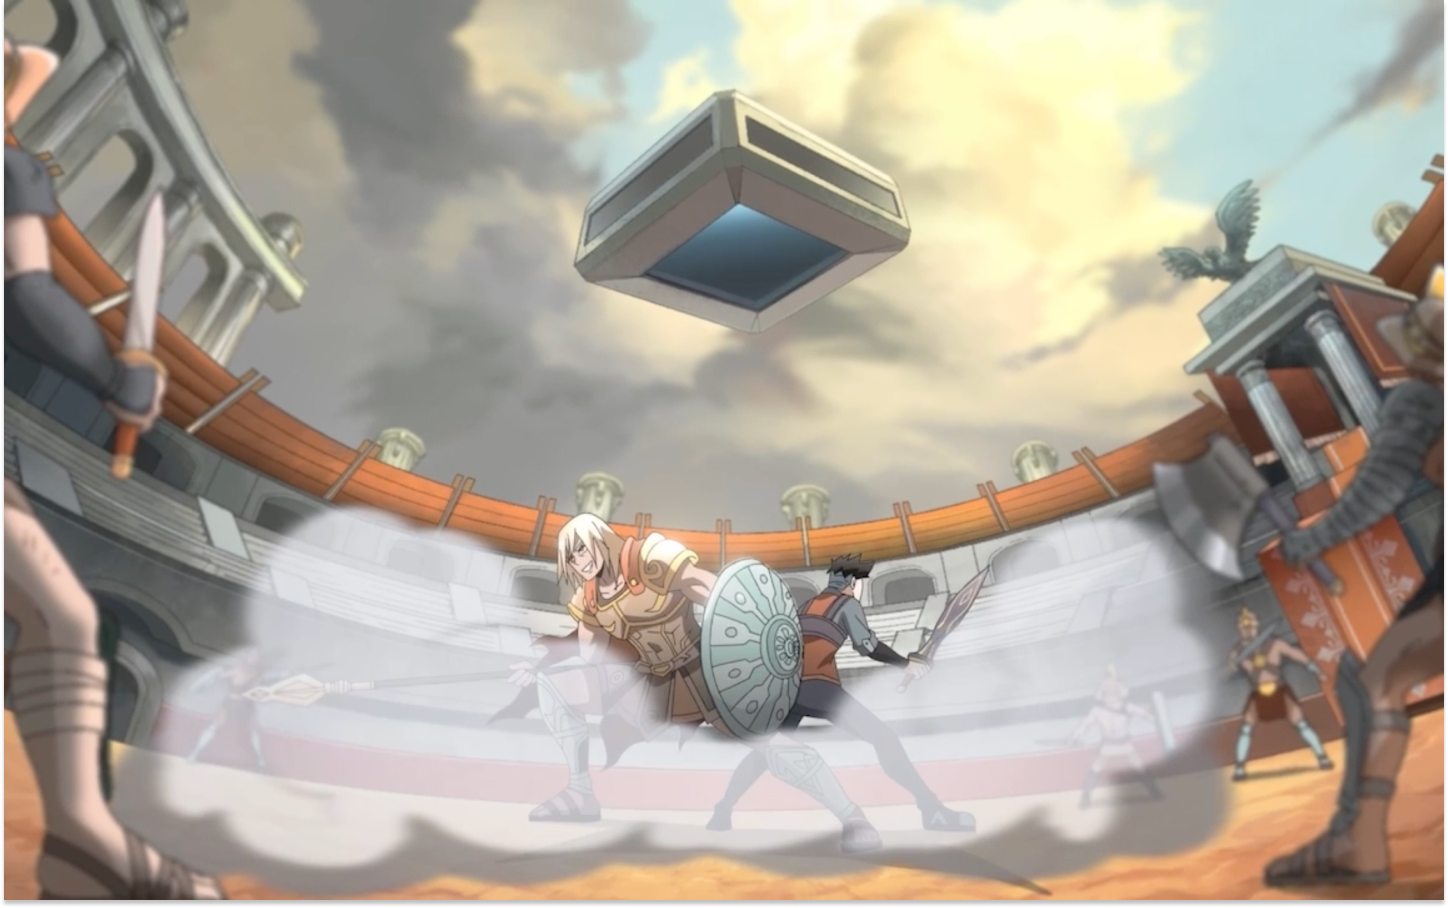
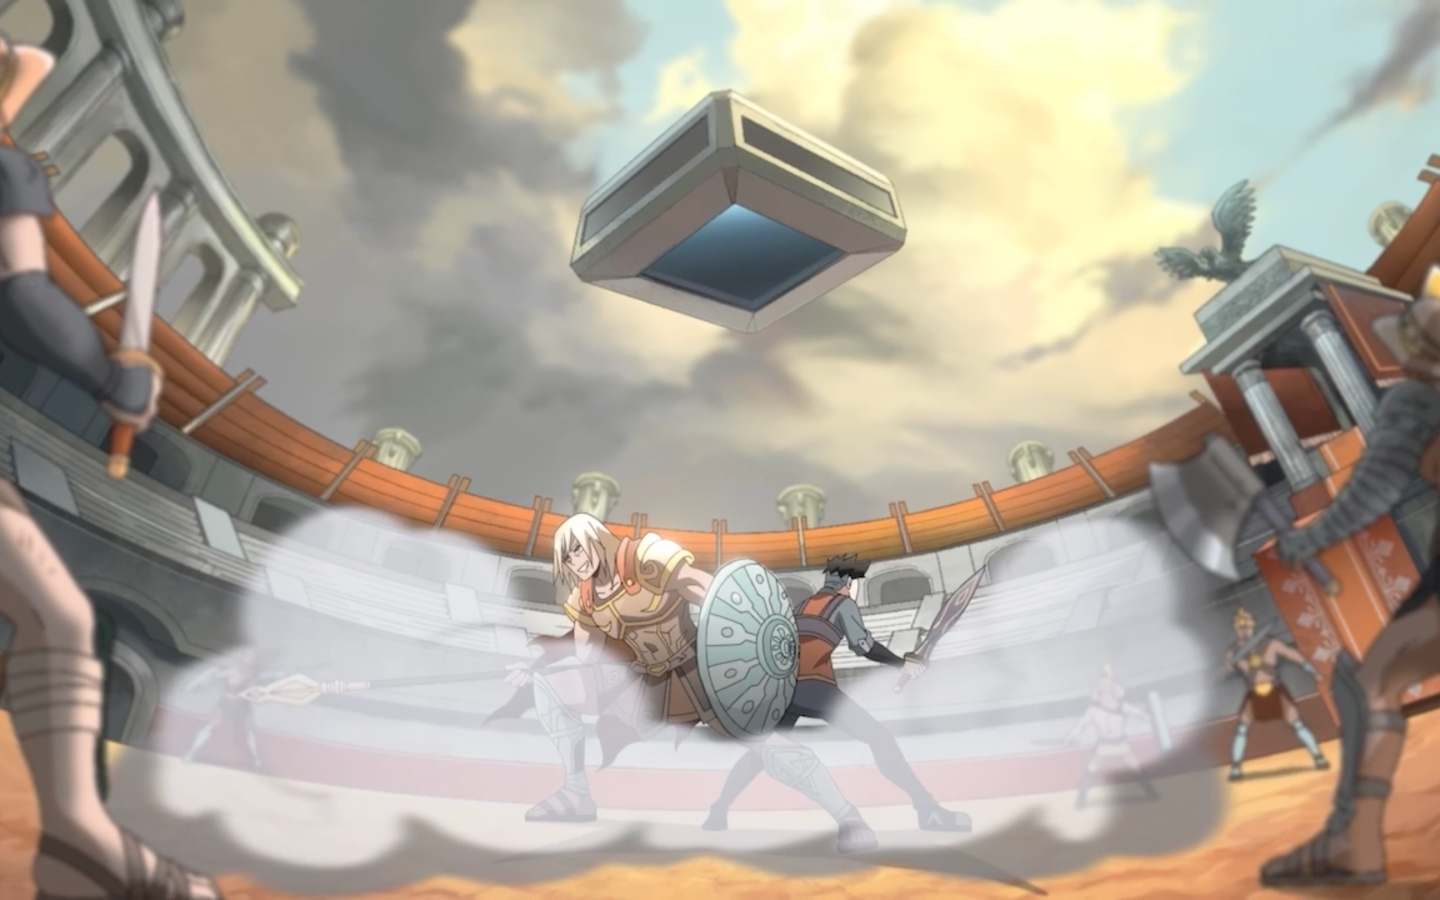
fix: update design

diff --git a/src/app/system-royale/page.tsx b/src/app/system-royale/page.tsx
@@ -312,40 +312,40 @@ export default function On1Forces() {
             Environment Design
           </Text>
           <Box
-            className="relative mx-auto bg-white rounded-[10px] md:rounded-[30px] overflow-hidden w-[312px] h-[219px] md:w-[1040px] md:h-[550px]"
+            className="relative mx-auto bg-white rounded-[10px] md:rounded-[30px] overflow-hidden w-[312px] h-[164px] md:w-[1040px] md:h-[550px]"
             boxShadow="0px 24px 48px 0px rgba(16, 24, 40, 0.12)"
           >
             <Image fill src="/images/voyceMe-8.png" alt="voyceMe-8" />
           </Box>
-          <Stack direction="row" className="mx-auto gap-[10px] md:gap-[35px]">
+          <Stack direction="row" className="mx-auto gap-[5px] md:gap-[35px]">
             <Box
-              className="relative bg-white rounded-[10px] md:rounded-[30px] overflow-hidden w-[151px] h-[107px] md:w-[446px] md:h-[314px]"
+              className="relative bg-white rounded-[10px] md:rounded-[30px] overflow-hidden w-[138px] h-[97px] md:w-[446px] md:h-[314px]"
               boxShadow="0px 24px 48px 0px rgba(16, 24, 40, 0.12)"
             >
               <Image fill src="/images/voyceMe-9.png" alt="voyceMe-9" />
             </Box>
             <Box
-              className="relative bg-white rounded-[10px] md:rounded-[30px] overflow-hidden w-[151px] h-[107px] md:w-[558px] md:h-[314px]"
+              className="relative bg-white rounded-[10px] md:rounded-[30px] overflow-hidden w-[169px] h-[97px] md:w-[558px] md:h-[314px]"
               boxShadow="0px 24px 48px 0px rgba(16, 24, 40, 0.12)"
             >
               <Image fill src="/images/voyceMe-10.png" alt="voyceMe-10" />
             </Box>
           </Stack>
           <Box
-            className="relative mx-auto bg-white rounded-[10px] md:rounded-[30px] overflow-hidden w-[312px] h-[219px] md:w-[1040px] md:h-[550px]"
+            className="relative mx-auto bg-white rounded-[10px] md:rounded-[30px] overflow-hidden w-[312px] h-[164px] md:w-[1040px] md:h-[550px]"
             boxShadow="0px 24px 48px 0px rgba(16, 24, 40, 0.12)"
           >
             <Image fill src="/images/voyceMe-11.png" alt="voyceMe-11" />
           </Box>
           <Stack direction="row" className="mx-auto gap-[10px] md:gap-[35px]">
             <Box
-              className="relative bg-white rounded-[10px] md:rounded-[30px] overflow-hidden w-[151px] h-[107px] md:w-[502px] md:h-[300px]"
+              className="relative bg-white rounded-[10px] md:rounded-[30px] overflow-hidden w-[151px] h-[90px] md:w-[502px] md:h-[300px]"
               boxShadow="0px 24px 48px 0px rgba(16, 24, 40, 0.12)"
             >
               <Image fill src="/images/voyceMe-12.png" alt="voyceMe-12" />
             </Box>
             <Box
-              className="relative bg-white rounded-[10px] md:rounded-[30px] overflow-hidden w-[151px] h-[107px] md:w-[502px] md:h-[300px]"
+              className="relative bg-white rounded-[10px] md:rounded-[30px] overflow-hidden w-[151px] h-[90px] md:w-[502px] md:h-[300px]"
               boxShadow="0px 24px 48px 0px rgba(16, 24, 40, 0.12)"
             >
               <Image fill src="/images/voyceMe-13.png" alt="voyceMe-13" />
@@ -353,26 +353,26 @@ export default function On1Forces() {
           </Stack>
           <Stack direction="row" className="mx-auto gap-[10px] md:gap-[35px]">
             <Box
-              className="relative bg-white rounded-[10px] md:rounded-[30px] overflow-hidden w-[151px] h-[107px] md:w-[502px] md:h-[300px]"
+              className="relative bg-white rounded-[10px] md:rounded-[30px] overflow-hidden w-[151px] h-[90px] md:w-[502px] md:h-[300px]"
               boxShadow="0px 24px 48px 0px rgba(16, 24, 40, 0.12)"
             >
               <Image fill src="/images/voyceMe-14.png" alt="voyceMe-14" />
             </Box>
             <Box
-              className="relative bg-white rounded-[10px] md:rounded-[30px] overflow-hidden w-[151px] h-[107px] md:w-[502px] md:h-[300px]"
+              className="relative bg-white rounded-[10px] md:rounded-[30px] overflow-hidden w-[151px] h-[90px] md:w-[502px] md:h-[300px]"
               boxShadow="0px 24px 48px 0px rgba(16, 24, 40, 0.12)"
             >
               <Image fill src="/images/voyceMe-15.png" alt="voyceMe-15" />
             </Box>
           </Stack>
           <Box
-            className="relative mx-auto bg-white rounded-[10px] md:rounded-[30px] overflow-hidden w-[312px] h-[219px] md:w-[1040px] md:h-[550px]"
+            className="relative mx-auto bg-white rounded-[10px] md:rounded-[30px] overflow-hidden w-[312px] h-[164px] md:w-[1040px] md:h-[550px]"
             boxShadow="0px 24px 48px 0px rgba(16, 24, 40, 0.12)"
           >
             <Image fill src="/images/voyceMe-16.png" alt="voyceMe-16" />
           </Box>
           <Box
-            className="relative mx-auto bg-white rounded-[10px] md:rounded-[30px] overflow-hidden w-[312px] h-[219px] md:w-[1040px] md:h-[550px]"
+            className="relative mx-auto bg-white rounded-[10px] md:rounded-[30px] overflow-hidden w-[312px] h-[164px] md:w-[1040px] md:h-[550px]"
             boxShadow="0px 24px 48px 0px rgba(16, 24, 40, 0.12)"
           >
             <Image fill src="/images/voyceMe-17.png" alt="voyceMe-17" />
